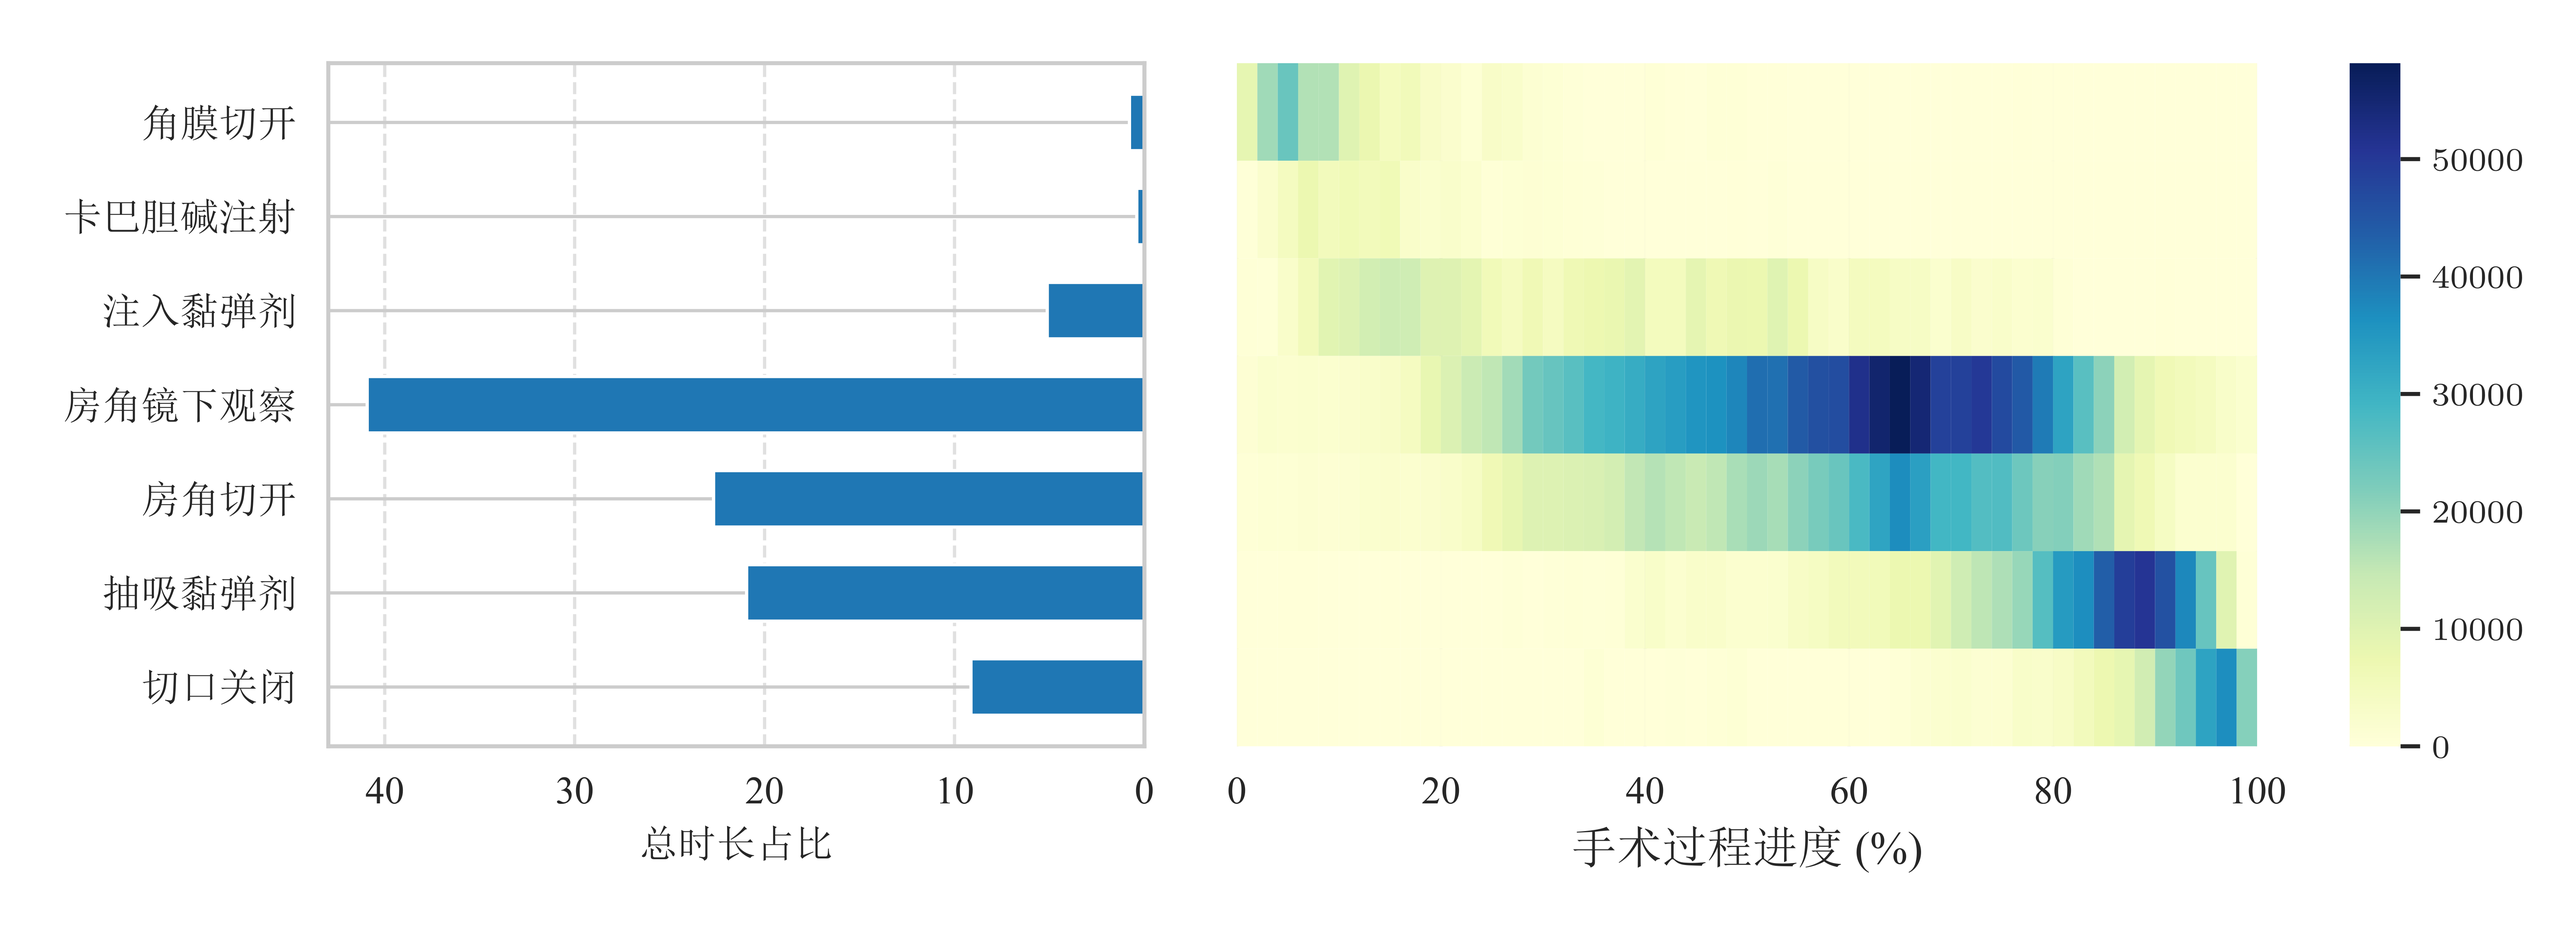
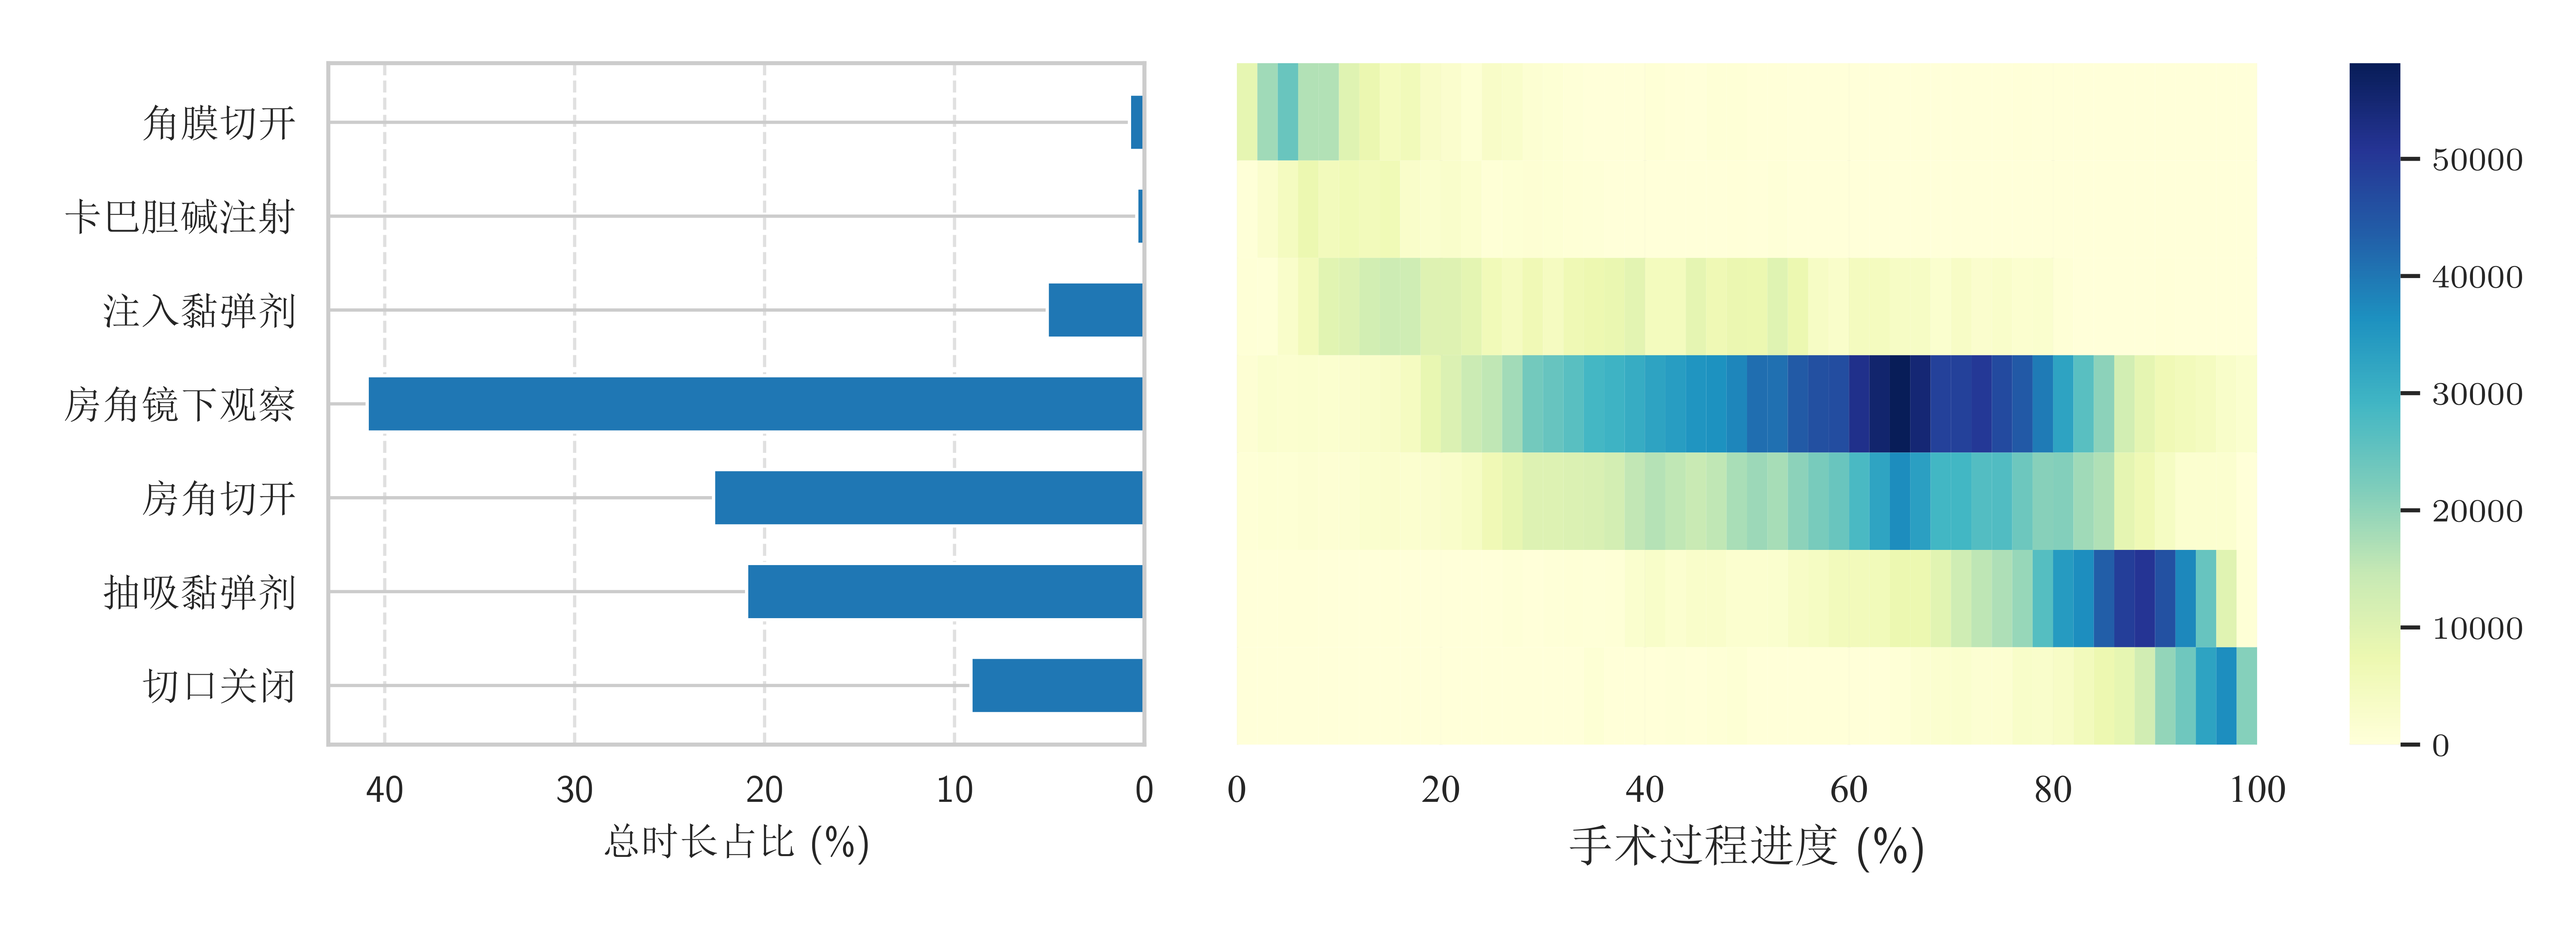
0308-final

diff --git a/sec/7-pub.tex b/sec/7-pub.tex
@@ -2,7 +2,7 @@
 
 一、已发表（包括已接受待发表）的论文，以及已投稿、或已成文打算投稿、或拟成文投稿的论文情况（只填写与学位论文内容相关的部分）：
 
-\begin{longtable}{|>{\centering}m{0.5cm}|>{\centering}m{2.3cm}|>{\centering}m{3.5cm}|>{\centering}m{2.6cm}|>{\centering}m{2cm}|>{\centering}m{1.3cm}|>{\centering}m{0.9cm}|}
+\begin{longtable}{|>{\centering}m{0.5cm}|>{\centering}m{3.5cm}|>{\centering}m{2.3cm}|>{\centering}m{2.6cm}|>{\centering}m{2cm}|>{\centering}m{1.3cm}|>{\centering}m{0.9cm}|}
 \hline 
 序号 & 作者（全体作者，按顺序排列） & 题 目 & 发表或投稿刊物名称、级别 & 发表的卷期、年月、页码 & 相当于学位论文的哪一部分（章、节） & 被索引收录情况\tabularnewline
 \hline 
@@ -24,29 +24,3 @@
 
 专利：已授权一项发明专利《一种吞咽造影视频微动作识别与定位方法及电子设备》，第四发明人，2025
 已受理一项发明专利《一种基于深度学习的青光眼手术实时导航方法》，第五发明人，2025
-
-
-Xiulan Zhang
-Deming Wang
-Yinhang Zhang
-Yirui Li
-Kai Zhou
-Zefeng Yang
-Zeng You
-Dilimulati Xiaokaiti
-Fengqi Zhou
-Yu Chen
-Xiaoyan Li
-Xiaowei Yan
-Guihua Xu
-Zhixuan Wang
-Jiaxuan Jiang
-Lin Xie
-Xiaomin Zhu
-Ling Jin
-Zhenyu Wang
-Ying Han
-Guangxian Tang
-Sujie Fan
-Fei Li
-Mingkui Tan

diff --git a/main.tex b/main.tex
@@ -1,6 +1,6 @@
 %% LyX 2.1.4 created this file.  For more info, see http://www.lyx.org/.
 %% Do not edit unless you really know what you are doing.
-\documentclass[unicode,pdfcover,master]{main}
+\documentclass[unicode,master]{main}
 \usepackage{fontspec}
 \usepackage{color}
 \usepackage{array}
@@ -11,11 +11,11 @@
  breaklinks=false,pdfborder={0 0 1},backref=false,colorlinks=true]
  {hyperref}
 % table
-% \usepackage{xspace}
+\usepackage{xspace}
 % \usepackage{enumitem}
 \usepackage{amsmath,amsfonts}
 \usepackage{algorithmic}
-\usepackage{algorithm}
+% \usepackage{algorithm}
 % \usepackage{array}
 % \usepackage{textcomp}
 % \usepackage{stfloats}

diff --git a/sec/1-intro.tex b/sec/1-intro.tex
@@ -74,7 +74,7 @@
 
 医疗视频的深层语义理解受到了国内外顶尖科研机构的持续关注，
 相关前沿成果频现于 Nature、Science等顶级权威期刊与会议
-\cite{ouyang2020video,hübner2009quantitative,savage2019digital,jin2017sv,sarikaya2017detection}。
+\cite{ouyang2020video,hübner2009quantitative,jin2017sv,sarikaya2017detection}。
 据此，本文立足于医疗场景下的视频动作理解研究，
 从“离线精细化定位”与“在线实时识别”两个互补维度出发，
 旨在解决医疗视频中微弱目标难感知与相似、短时动作难判断的核心命题，
